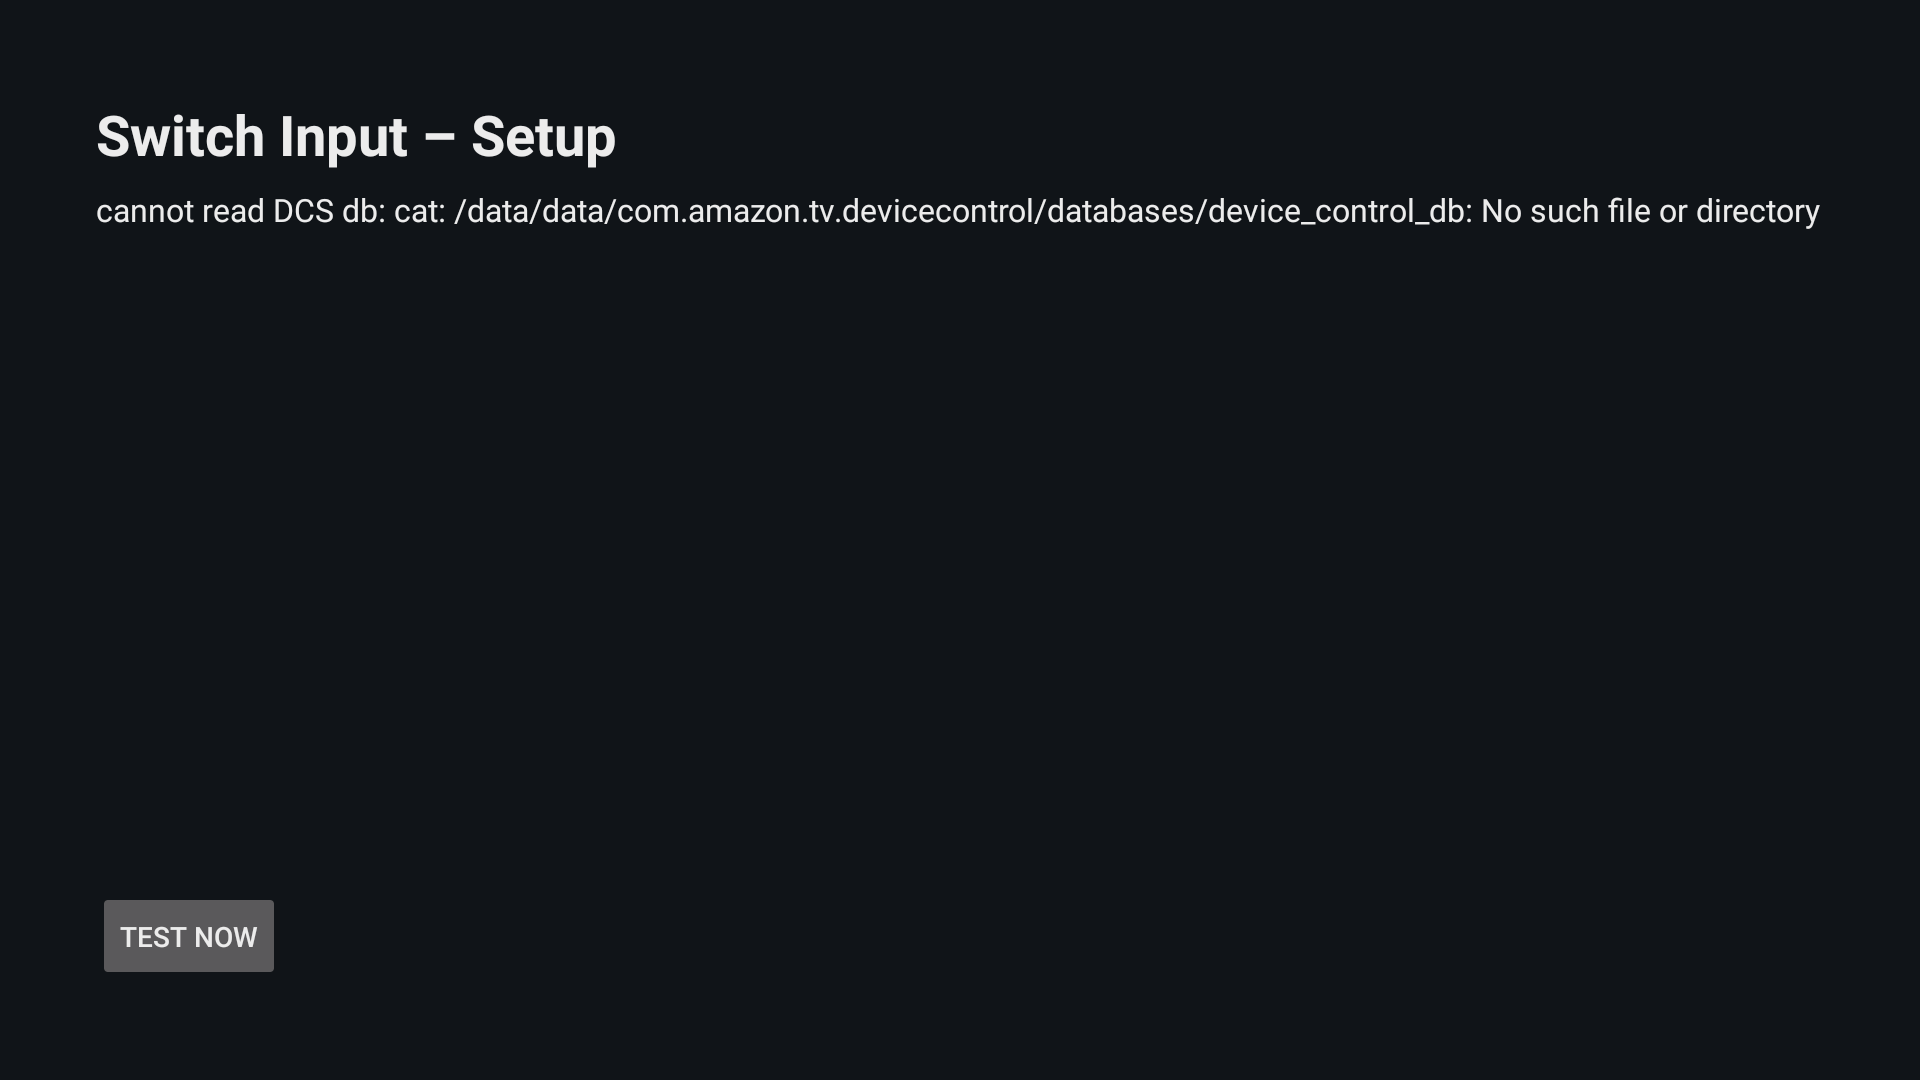
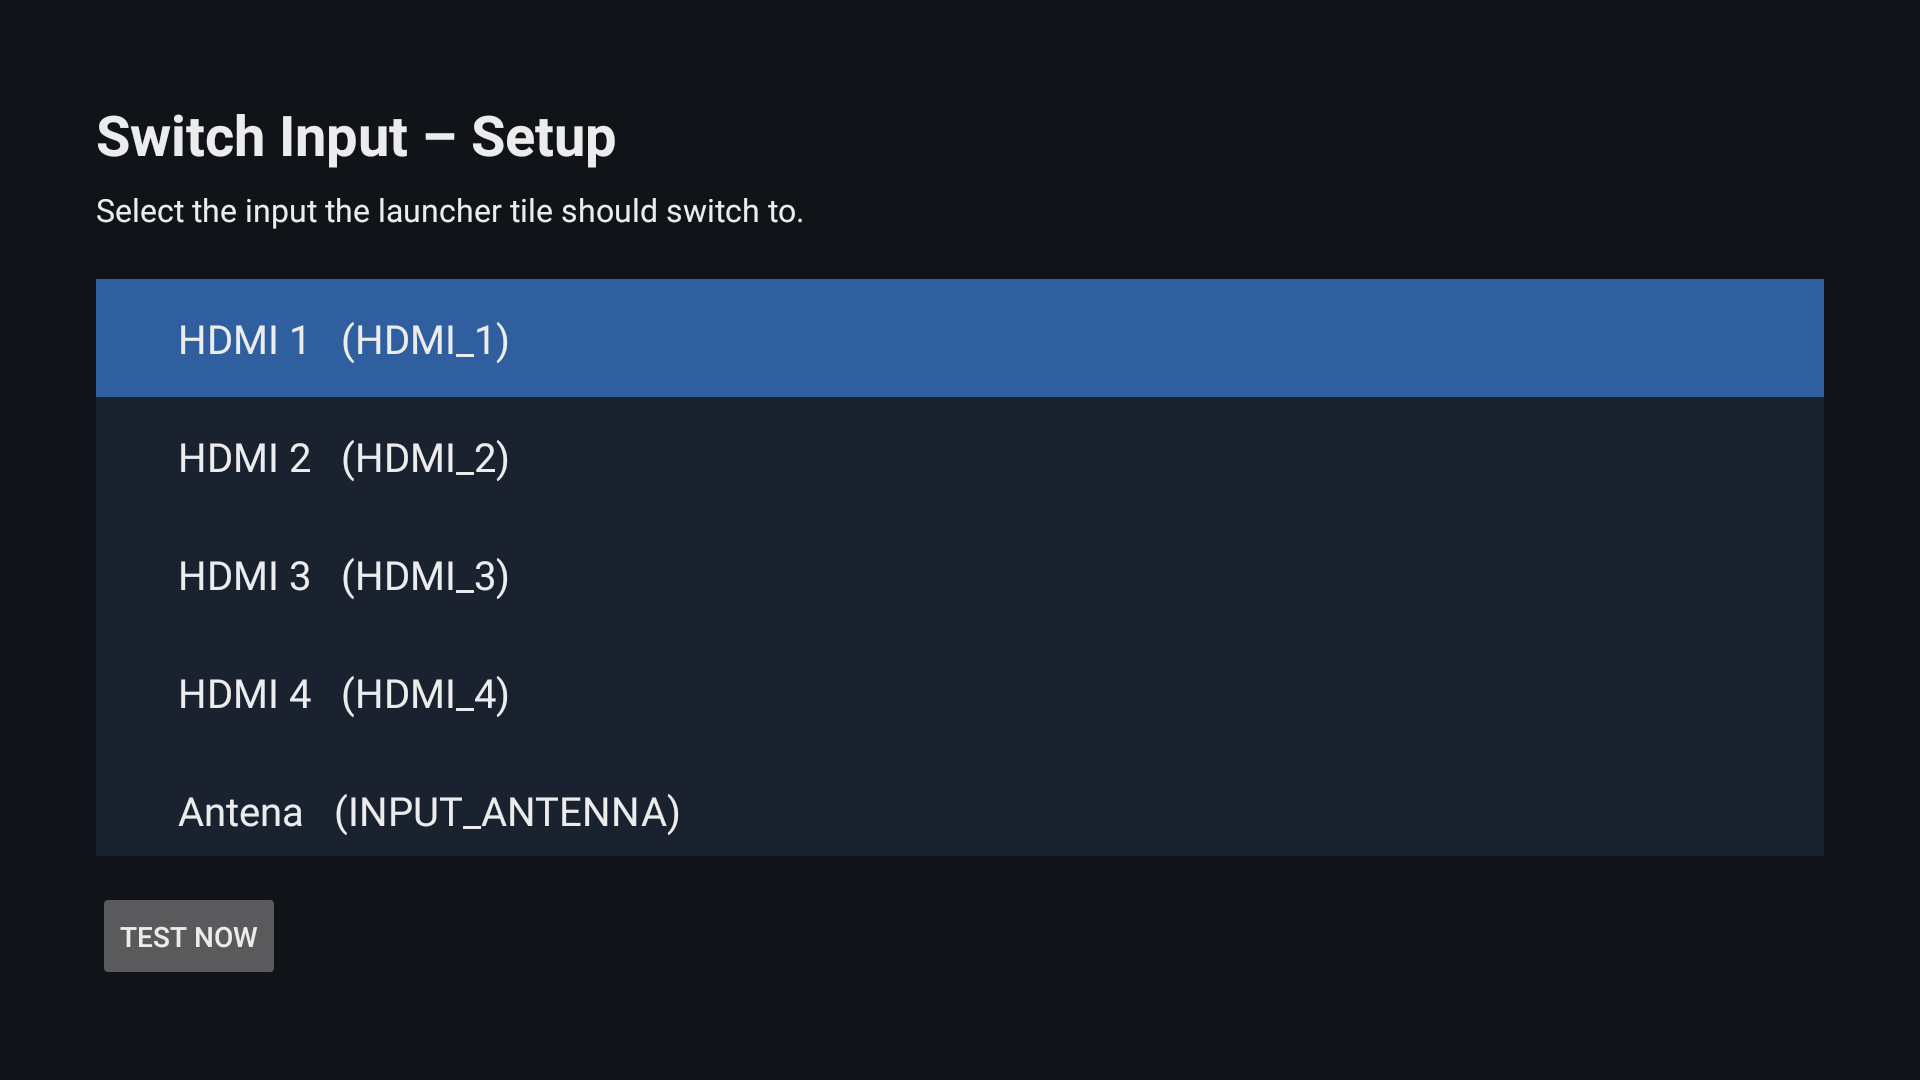
Root: run su with -mm (global mount namespace)
On Fire OS 8 / Android 11 the root shell spawned from inside the app inherits
the app's mount namespace, where app-data isolation hides other packages'
/data/data dirs; 'cat device_control_db' failed with ENOENT even as root.
Magisk's --mount-master flag fixes it. Also keeps the setup screenshot in diag/.

diff --git a/app/src/main/java/pt/aadf/sourcesswitcher/Root.kt b/app/src/main/java/pt/aadf/sourcesswitcher/Root.kt
@@ -2,7 +2,12 @@ package pt.aadf.sourcesswitcher
 
 import java.io.ByteArrayOutputStream
 
-/** Minimal `su -c` runner. The stick runs Magisk, whose su accepts `su -c <cmd>`. */
+/**
+ * Minimal `su` runner. The stick runs Magisk; `-mm` (--mount-master) runs the command in the
+ * global mount namespace. Without it, Android 11 app-data isolation hides other packages'
+ * /data/data directories from the root shell spawned inside this app's namespace, so the
+ * device-control database would be "No such file or directory" even as root.
+ */
 object Root {
     class Result(val exitCode: Int, val stdout: ByteArray, val stderr: String) {
         val ok get() = exitCode == 0
@@ -10,7 +15,7 @@ object Root {
     }
 
     fun run(cmd: String): Result {
-        val p = ProcessBuilder("su", "-c", cmd).start()
+        val p = ProcessBuilder("su", "-mm", "-c", cmd).start()
         val out = ByteArrayOutputStream()
         var err = ByteArray(0)
         val t = Thread { err = p.errorStream.readBytes() }
